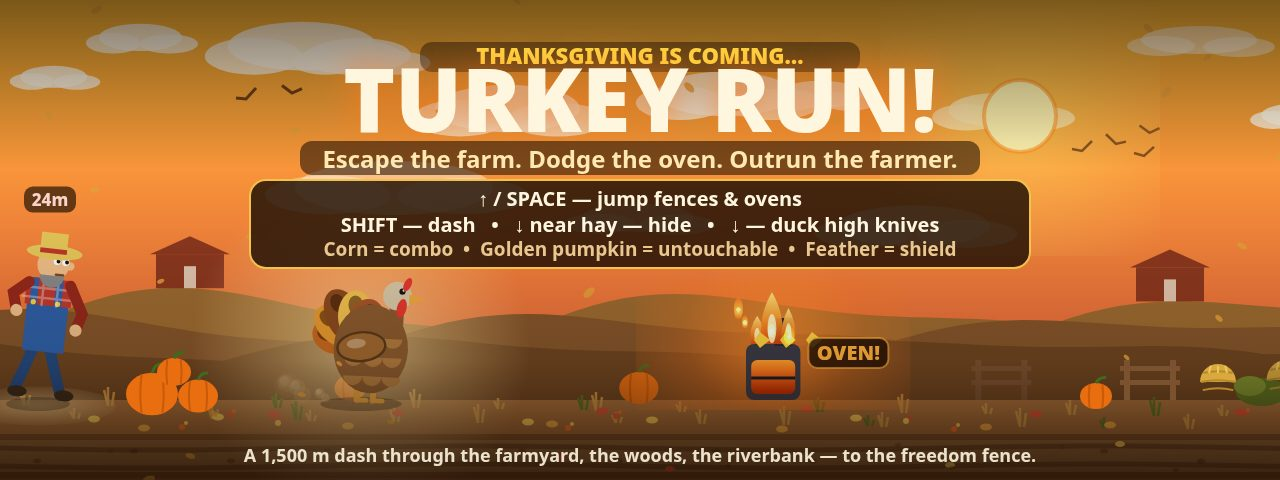
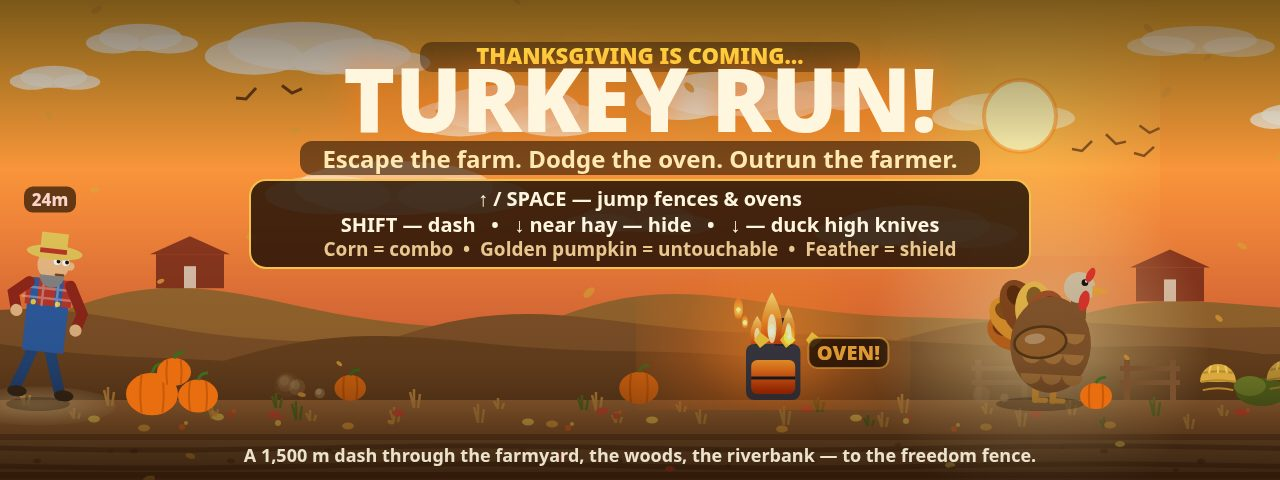
Round 21 (finals, title turkey): move the title turkey into the open sky right of the instruction panel (dx +679, centre x 1040) and grow it to 1.30x
The panel used to cap the bird at 1.20 (head top y=278, panel bottom 268, 10 px gap; at 1.30 the head would reach y=270 and touch). Moved, the head (x ~1058-1105, top y~270-273) sits wholly clear of the panel (right edge x=1030), the tail fan (top y~283) clears the panel bottom by ~15 px, the beak (~1105) stays ~25 px clear of the right barn roof (~1130), the feet clear the foreground pumpkin at x=1096, and the OVEN! label (ends ~x920) stays clear of the tail (~x975). The warm glow moves with the bird (gx follows turkeyDx). Panel, kicker, title, subtitle pill, BEST/PRESS and footer untouched; play/danger/end frames byte-identical.

Changed region(s): [[0.7188, 0.5312, 0.9062, 0.875], [0.1875, 0.5625, 0.375, 0.9062]]

diff --git a/game/src/render.js b/game/src/render.js
@@ -785,23 +785,28 @@ export function createRenderer(canvas) {
   // with wings thrown wide, a low slide, and a dazed hurt wobble. The
   // tail fan, wing angle, legs and eye all change with the pose, so the
   // bird looks alive instead of like one frozen cut-out.
-  // scale is 1.12 in play and 1.20 on the title, so the bird reads
-  // bigger on the contact sheet. The title scale is capped by the
-  // instruction panel above it: the whole title text block moved up
-  // 8 px (panel bottom y=280) in round 15, and in round 16 the panel
-  // was tightened as well (lines 210/238/264 -> 206/232/256, height
-  // 100 -> 88, bottom y=268) to make room — at 1.20 the head still
-  // clears it by ~10 px, measured off the screenshot (head top
-  // y=289 at 1.09, so ~278 at 1.20, panel bottom 268). The scale
-  // pivots on the feet, so the bird grows up and out while its feet
-  // stay on the ground line.
-  function drawTurkey(state, scale, celebrate) {
+  // scale is 1.12 in play and 1.30 on the title, so the bird reads
+  // bigger on the contact sheet. The title bird no longer stands
+  // under the instruction panel at all (round 21): it moved right
+  // into the open sky beside the panel (dx +679, centre x 1040),
+  // so the panel's bottom edge no longer caps it — 1.20 was the
+  // ceiling while it stood underneath (head top y=278 at 1.20,
+  // panel bottom 268, 10 px gap; at 1.30 the head would reach
+  // y=270 and touch). The scale pivots on the feet, so the bird
+  // grows up and out while its feet stay on the ground line. The
+  // dx is title-only: play and the end screen keep dx 0, and the
+  // farmer, the oven and the panel never move.
+  function drawTurkey(state, scale, celebrate, dx) {
     const p = state.player;
     const gy = FIELD.groundY;
     const air = p.y > 0;
     const squashY = p.squash > 0 ? 1 - p.squash * 0.18 : 1;
     const squashX = p.squash > 0 ? 1 + p.squash * 0.18 : 1;
-    const cx = TURKEY_X + TURKEY.width / 2;
+    // dx shifts the whole bird (shadow, dust, wind lines; the warm
+    // glow is moved separately in drawField) without touching
+    // TURKEY_X, so play, the end screen and every collision stay
+    // exactly where they were — only the title passes a non-zero dx.
+    const cx = TURKEY_X + TURKEY.width / 2 + (dx || 0);
     const feetY = gy - p.y;
     const ducking = p.ducking || p.hiding > 0;
     const bodyH = ducking ? 46 : 74;
@@ -1809,14 +1814,21 @@ export function createRenderer(canvas) {
   // ---- one frame ----
   function drawField(state, screen) {
     const stage = STAGES[state.stage];
-    // The turkey is drawn 12% bigger everywhere, and 20% bigger on the
-    // title: the whole title text block moved up 8 px in round 15
-    // (panel bottom y=280), and in round 16 the panel was tightened
-    // as well (bottom now y=268), so the bird's head — which rises
-    // ~11 px from 1.09 to 1.20 — still clears the panel by ~10 px,
-    // measured off the screenshot. At 1.09 the gain over 1.0 was a
-    // barely visible ring; 1.20 is the biggest the title bird can go
-    // without touching the panel or squeezing the text block further.
+    // The turkey is drawn 12% bigger everywhere, and 30% bigger on
+    // the title — and, since round 21, standing in the open sky
+    // right of the instruction panel instead of underneath it
+    // (centre x 361 -> 1040, dx +679): the panel's bottom edge used
+    // to cap the bird at 1.20 (head top y=278 at 1.20, panel bottom
+    // 268, 10 px gap; at 1.30 the head would reach y=270 and touch
+    // it). Moved, the head (x ~1058-1105, top y~270) sits wholly
+    // clear of the panel (right edge x=1030), the tail fan (top
+    // y~275-283) still clears the panel bottom by >=7 px where it
+    // passes under the panel's right end, the beak (~1105) stays
+    // ~25 px clear of the right barn's roof (~1130), and the feet
+    // stay clear of the foreground pumpkin at x=1096 (the body at
+    // pumpkin height only reaches x~1039). The OVEN! label ends
+    // ~x920, the tail starts ~x975. Measured off the screenshot,
+    // not guessed — see the round-21 numbers in the commit.
     // On the escape screen it is 40% bigger and leaping
     // with its wings thrown wide: the end frame's hero used to stand
     // behind the white fence pickets, smaller than the farmer at the
@@ -1824,7 +1836,8 @@ export function createRenderer(canvas) {
     // and owns the frame — and the farmer is drawn a touch smaller
     // there, so he stops outshining the bird he failed to catch.
     const escaped = screen === SCREEN_OVER && state.escaped;
-    const turkeyScale = screen === SCREEN_TITLE ? 1.20 : escaped ? 1.4 : 1.12;
+    const turkeyScale = screen === SCREEN_TITLE ? 1.30 : escaped ? 1.4 : 1.12;
+    const turkeyDx = screen === SCREEN_TITLE ? 679 : 0;
     drawSky(state, stage, screen);
     drawHills(state, stage, screen);
     drawGround(state, stage);
@@ -1867,9 +1880,12 @@ export function createRenderer(canvas) {
     // own browns (#8a5a2e body), so at half size it sank into the
     // hillside; the glow lifts the hill behind it into a lit backdrop
     // without moving the bird, and it never touches another screen —
-    // the instruction panel is drawn on top of it afterwards.
+    // the instruction panel is drawn on top of it afterwards. The
+    // glow moves with the bird (gx follows turkeyDx): since round 21
+    // the title bird stands at x=1040, and a glow left behind at
+    // x=361 would light empty hillside while the bird stood dark.
     if (screen === SCREEN_TITLE) {
-      const gx = TURKEY_X + TURKEY.width / 2;
+      const gx = TURKEY_X + TURKEY.width / 2 + turkeyDx;
       const gy = FIELD.groundY - 55;
       const glow = context.createRadialGradient(gx, gy, 10, gx, gy, 170);
       glow.addColorStop(0, 'rgba(255,232,170,0.6)');
@@ -1878,7 +1894,7 @@ export function createRenderer(canvas) {
       context.fillStyle = glow;
       context.fillRect(gx - 170, gy - 170, 340, 340);
     }
-    drawTurkey(state, turkeyScale, escaped);
+    drawTurkey(state, turkeyScale, escaped, turkeyDx);
     drawFarmer(state, escaped ? 1.0 : 1.22);
     // Haystacks stand in front, so a hiding turkey really disappears.
     // A passed haystack fades with the rest, for the same reason: the
